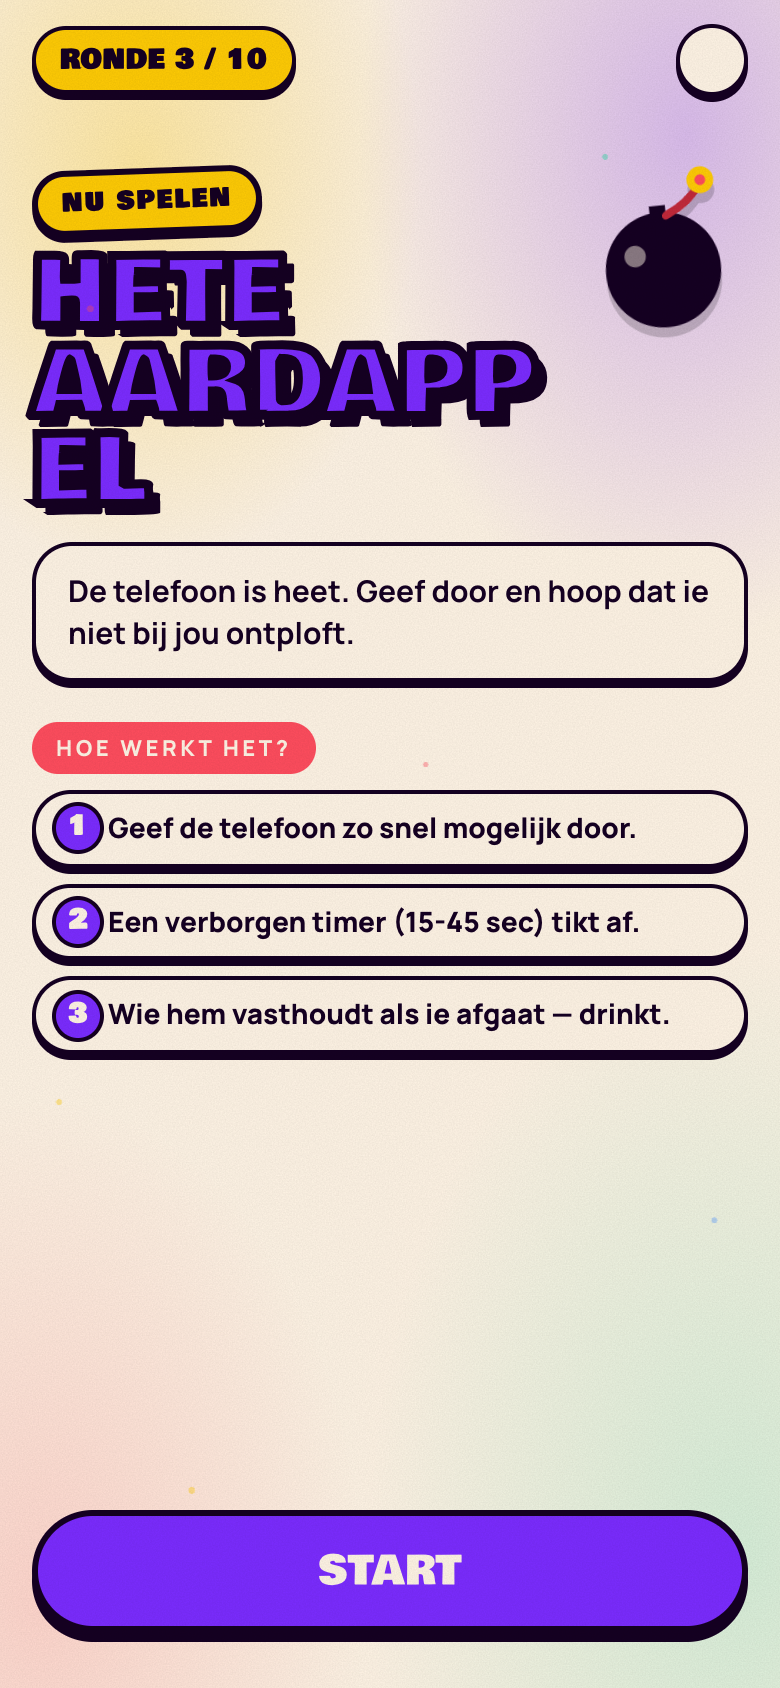
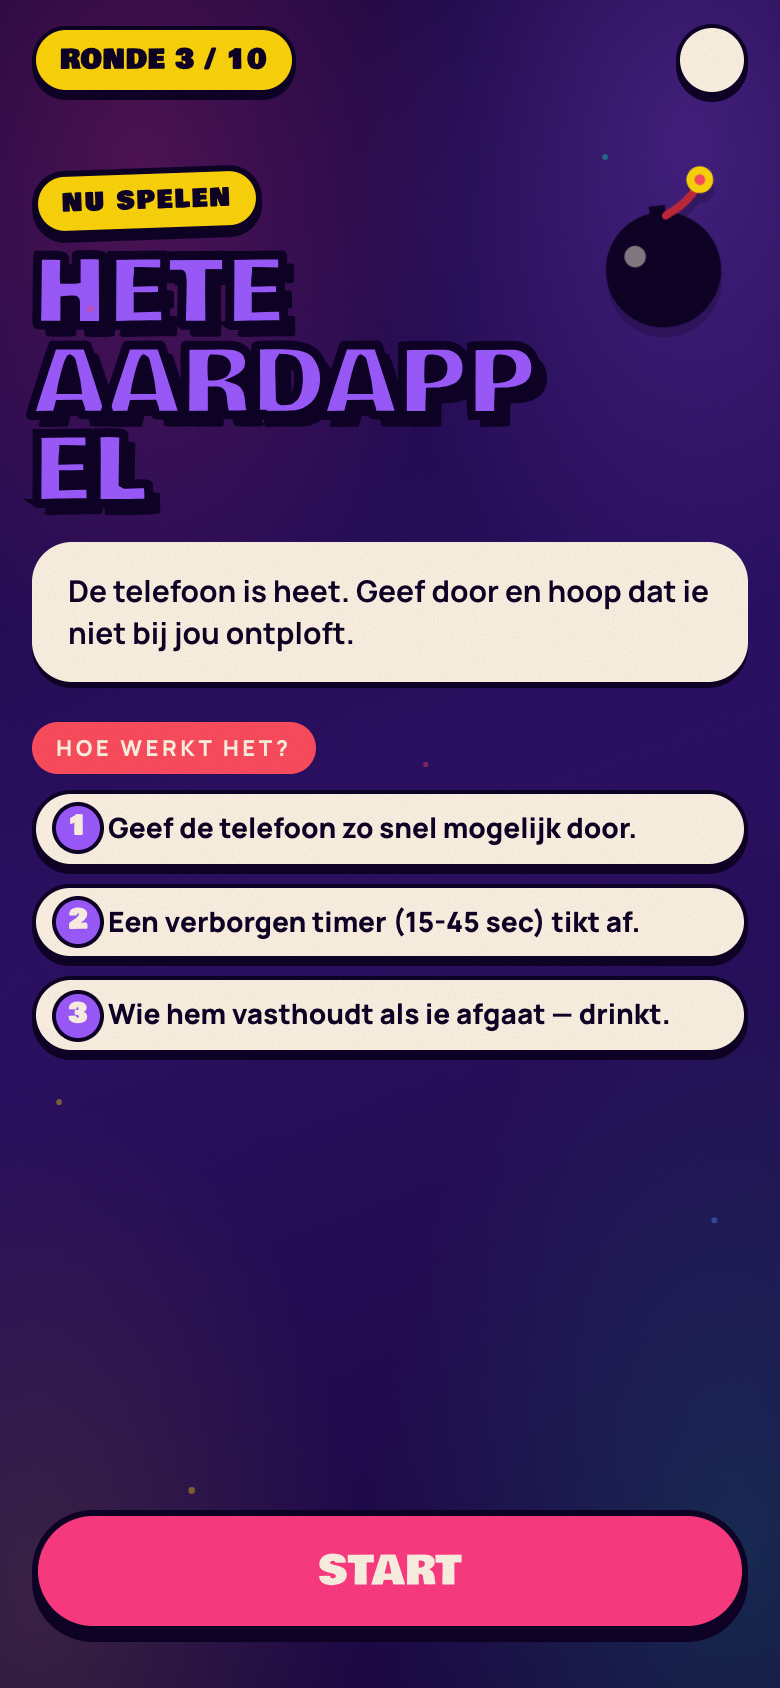
INSIGHT-style dark palette: deep purple bg, neon pink primary, cream cards
Full palette flip per user request "doe nu zelfde kleuren als insight":
- BG: cream → deep dark violet (#1A0640 → #2D1166 gradient + neon radials)
- Default text on screen: ink → cream (since bg is now dark)
- Primary CTA: purple → neon pink (#FF3B82) — Insight signature accent
- Cream cards remain (POP harder against dark bg now — premium feel)
- Mascot gets pink glow halo so silhouette stays visible on dark

Tokens added: bg-dark, bg-darker, bg-card, pink, pink-deep, pink-soft.
Cream/yellow/mint/sky stay as accents.

Specific updates:
- .btn default → pink, .btn.primary → pink, .btn.purple → purple variant
- .btn.ghost: transparent w/ cream border (was ink-on-cream)
- Welcome marker chips: cream + pink (was ink + coral)
- Setup-step h2: cream w/ ink stroke + pink shadow (was raw ink)
- Setup-step subtitle: cream w/ opacity (was ink)
- Setup-progress bg track: cream rgba (was ink rgba)
- Vote screen who-turn: cream w/ stroke + pink shadow
- Zitplaatsen heading: cream stroked
- Game-intro gdesc card border: cream (subtle on dark bg)
- Welcome-bottom + zitplaatsen subtitle: cream

Welcome mascot now has neon pink drop-shadow halo so the ink-fur cat
stays visible against the dark violet background.

diff --git a/css/main.css b/css/main.css
@@ -6,30 +6,38 @@
  */
 
 :root {
-  /* === Purple-pop palette (BoomIt-vibe) === */
-  --cream:        #FFF4E5;
+  /* === INSIGHT-style palette: deep purple bg, neon accents, cream cards === */
+  --bg-dark:      #1A0640;       /* primary background — deep violet */
+  --bg-darker:    #0E0226;
+  --bg-card:      #2D1166;       /* darker purple card surface */
+
+  --cream:        #FFF4E5;       /* card surface (light) */
   --cream-deep:   #FFE9CC;
   --cream-shade:  #FAD9A8;
 
-  --purple:       #7B2CFF;       /* PRIMARY — vibrant violet */
-  --purple-deep:  #4A0EC2;
+  --purple:       #9D5BFF;       /* lighter, brighter on dark bg */
+  --purple-deep:  #6B1FE0;
   --purple-soft:  #C9ADFF;
+
+  --pink:         #FF3B82;       /* PRIMARY — neon hot pink */
+  --pink-deep:    #C91E5F;
+  --pink-soft:    #FFB5C7;
 
   --coral:        #FF4D5E;       /* secondary accent */
   --coral-deep:   #C2293A;
   --coral-soft:   #FFB5BD;
 
-  --yellow:       #FFCB05;
+  --yellow:       #FFD60A;
   --yellow-soft:  #FFE082;
 
-  --mint:         #20D6A0;
+  --mint:         #00E1A1;       /* slight more neon */
   --mint-deep:    #0F9D72;
 
   --sky:          #5B9BFF;
 
-  --ink:          #150022;       /* deep purple-black */
-  --ink-soft:     #2D0044;
-  --ink-mute:     #5A3F73;
+  --ink:          #0E0226;       /* deepest violet, near black */
+  --ink-soft:     #2D1166;
+  --ink-mute:     #6B5A85;
 
   /* === Functional aliases === */
   --bg: var(--cream);
@@ -40,9 +48,6 @@
   --fg-on-color: var(--cream);
 
   /* Backward-compat (older inline references) */
-  --pink: var(--coral);
-  --pink-deep: var(--coral-deep);
-  --pink-soft: var(--coral-soft);
   --lime: var(--yellow);
   --lime-deep: #C9A005;
   --orange: var(--coral);
@@ -50,14 +55,14 @@
   --cyan: var(--sky);
   --red: var(--coral-deep);
   --bone: var(--cream);
-  --ink-orange: var(--coral);
-  --ink-cyan: var(--mint-deep);
+  --ink-orange: var(--pink);
+  --ink-cyan: var(--mint);
   --ink-bone: var(--cream);
   --ink-paper: var(--ink);
 
-  /* Hero color (per-game) — PURPLE PRIMARY */
-  --hero: var(--purple);
-  --hero-deep: var(--purple-deep);
+  /* Hero color (per-game) — PINK PRIMARY (Insight neon) */
+  --hero: var(--pink);
+  --hero-deep: var(--pink-deep);
 
   /* Type */
   --font-display: "Bowlby One", "Anton", sans-serif;
@@ -92,8 +97,8 @@ html, body {
   height: 100%;
   overflow: hidden;
   overscroll-behavior: none;
-  background: var(--cream);
-  color: var(--fg);
+  background: var(--bg-dark);
+  color: var(--cream);
   font-family: var(--font-body);
   font-weight: 700;
   font-size: 15px;
@@ -101,26 +106,26 @@ html, body {
   -webkit-font-smoothing: antialiased;
 }
 
-/* === Animated background — soft purple gradient with cream + accent radials === */
+/* === Insight-style: deep dark violet bg with neon accent radials === */
 body {
   position: relative;
   background:
-    radial-gradient(ellipse 60% 40% at 18% 10%, rgba(255,203,5,0.30), transparent 60%),
-    radial-gradient(ellipse 70% 50% at 88% 8%, rgba(123,44,255,0.28), transparent 60%),
-    radial-gradient(ellipse 80% 60% at 95% 92%, rgba(32,214,160,0.18), transparent 60%),
-    radial-gradient(ellipse 70% 50% at 5% 95%, rgba(255,77,94,0.18), transparent 60%),
-    var(--cream);
+    radial-gradient(ellipse 70% 50% at 18% 10%, rgba(255,59,130,0.22), transparent 60%),
+    radial-gradient(ellipse 70% 50% at 88% 8%, rgba(157,91,255,0.28), transparent 60%),
+    radial-gradient(ellipse 80% 60% at 95% 92%, rgba(0,225,161,0.16), transparent 60%),
+    radial-gradient(ellipse 70% 50% at 5% 95%, rgba(255,214,10,0.12), transparent 60%),
+    linear-gradient(160deg, #1A0640 0%, #2D1166 50%, #1A0640 100%);
   background-attachment: fixed;
 }
 
-/* Per-screen theme: tints the bg accents subtly without going dark */
+/* Per-screen theme: shifts hero color */
 body[data-theme="purple"] { --hero: var(--purple); --hero-deep: var(--purple-deep); }
 body[data-theme="coral"]  { --hero: var(--coral); --hero-deep: var(--coral-deep); }
 body[data-theme="yellow"] { --hero: var(--yellow); --hero-deep: #C9A005; }
 body[data-theme="mint"]   { --hero: var(--mint); --hero-deep: var(--mint-deep); }
 body[data-theme="sky"]    { --hero: var(--sky); --hero-deep: #2868D9; }
-body[data-theme="ink"]    { --hero: var(--ink-soft); --hero-deep: var(--ink); }
-body[data-theme="blush"]  { --hero: var(--purple-soft); --hero-deep: var(--purple); }
+body[data-theme="ink"]    { --hero: var(--pink); --hero-deep: var(--pink-deep); }
+body[data-theme="blush"]  { --hero: var(--pink); --hero-deep: var(--pink-deep); }
 
 /* Dot confetti overlay */
 .grain {
@@ -184,7 +189,7 @@ body[data-theme="blush"]  { --hero: var(--purple-soft); --hero-deep: var(--purpl
   padding: calc(var(--s-5) + var(--safe-top)) var(--s-5) calc(var(--s-5) + var(--safe-bot));
   overflow: hidden;
   will-change: transform, opacity;
-  color: var(--ink);
+  color: var(--cream);
 }
 .screen.entering { animation: screenIn 380ms var(--ease-pop) both; }
 .screen.exiting  { animation: screenOut 220ms var(--ease-out) both; }
@@ -250,7 +255,7 @@ p { margin: 0; }
   gap: var(--s-2);
   min-height: 60px;
   padding: var(--s-3) var(--s-5);
-  background: var(--purple);
+  background: var(--pink);
   color: var(--cream);
   border: 3px solid var(--ink);
   border-radius: var(--r-pill);
@@ -272,7 +277,8 @@ p { margin: 0; }
 .btn.full   { width: 100%; }
 .btn.small  { min-height: 44px; padding: var(--s-2) var(--s-4); font-size: 15px; }
 
-.btn.primary { background: var(--purple); color: var(--cream); }
+.btn.primary { background: var(--pink); color: var(--cream); }
+.btn.purple  { background: var(--purple); color: var(--cream); }
 .btn.coral   { background: var(--coral); color: var(--cream); }
 .btn.cream   { background: var(--cream); color: var(--ink); }
 .btn.yellow  { background: var(--yellow); color: var(--ink); }
@@ -280,10 +286,10 @@ p { margin: 0; }
 .btn.ink     { background: var(--ink); color: var(--cream); }
 .btn.danger  { background: var(--coral-deep); color: var(--cream); }
 .btn.ghost   {
-  background: transparent;
-  color: var(--ink);
-  border-color: var(--ink);
-  box-shadow: 0 5px 0 0 rgba(26,22,53,0.25);
+  background: rgba(255,244,229,0.08);
+  color: var(--cream);
+  border-color: var(--cream);
+  box-shadow: 0 5px 0 0 rgba(0,0,0,0.5);
 }
 
 /* === Cards === */

diff --git a/css/screens.css b/css/screens.css
@@ -19,18 +19,18 @@
   font-weight: 900;
   font-size: 11px;
   letter-spacing: 0.18em;
-  background: var(--ink);
-  color: var(--cream);
+  background: var(--cream);
+  color: var(--ink);
   padding: 5px 12px;
   border-radius: var(--r-pill);
 }
-.welcome .marker.right { left: auto; right: var(--s-5); background: var(--coral); color: var(--cream); }
+.welcome .marker.right { left: auto; right: var(--s-5); background: var(--pink); color: var(--cream); }
 
 .welcome-mascot {
   width: clamp(140px, 38vw, 200px);
   height: auto;
   margin-bottom: var(--s-5);
-  filter: drop-shadow(0 6px 0 var(--ink));
+  filter: drop-shadow(0 0 28px rgba(255,59,130,0.55)) drop-shadow(0 6px 0 var(--ink));
   animation: mascotBob 3s ease-in-out infinite;
   transform-origin: center bottom;
 }
@@ -80,7 +80,7 @@
   font-weight: 900;
   font-size: 11px;
   letter-spacing: 0.3em;
-  color: var(--ink);
+  color: var(--cream);
   opacity: 0.55;
   text-transform: uppercase;
 }
@@ -178,9 +178,9 @@
 .setup-progress span {
   flex: 1;
   height: 8px;
-  background: rgba(26,22,53,0.16);
+  background: rgba(255,244,229,0.18);
   border-radius: var(--r-pill);
-  border: 2px solid var(--ink);
+  border: 2px solid var(--cream);
 }
 .setup-progress span.done { background: var(--mint); }
 .setup-progress span.current { background: var(--coral); animation: pulse 1.4s infinite; }
@@ -205,17 +205,18 @@
   text-transform: uppercase;
 }
 .setup-step h2 {
-  color: var(--ink);
+  color: var(--cream);
+  text-shadow: 4px 4px 0 var(--ink);
   margin: 0;
   line-height: 0.92;
   font-size: clamp(34px, 9vw, 56px);
 }
 .setup-step p {
   margin: 0;
-  color: var(--ink);
+  color: var(--cream);
   font-size: 14px;
   font-weight: 700;
-  opacity: 0.72;
+  opacity: 0.78;
 }
 
 .player-input { display: flex; gap: var(--s-2); align-items: stretch; }
@@ -400,8 +401,9 @@
   font-family: var(--font-display);
   font-size: clamp(40px, 11vw, 64px);
   line-height: 0.95;
-  color: var(--ink);
-  text-shadow: 4px 4px 0 var(--coral);
+  color: var(--cream);
+  -webkit-text-stroke: 3px var(--ink);
+  text-shadow: 4px 4px 0 var(--pink);
   word-break: break-word;
   padding: 0 var(--s-2);
 }
@@ -746,7 +748,7 @@
   background: var(--cream);
   padding: var(--s-3) var(--s-4);
   border-radius: var(--r-md);
-  border: 2.5px solid var(--ink);
+  border: 2.5px solid var(--cream);
   box-shadow: var(--shadow-pop-sm);
 }
 .gintro-howto {

diff --git a/js/app.js b/js/app.js
@@ -514,7 +514,7 @@
     mount(s => {
       s.classList.add('seating');
       s.appendChild(U.el('div', { class: 'kicker coral', style: { alignSelf: 'center' }, text: 'ZITVOLGORDE' }));
-      s.appendChild(U.el('h2', { style: { color: 'var(--ink)', textAlign: 'center', textShadow: '4px 4px 0 var(--coral)' }, text: 'JE BUREN VAN VANAVOND' }));
+      s.appendChild(U.el('h2', { style: { color: 'var(--cream)', textAlign: 'center', WebkitTextStroke: '3px var(--ink)', textShadow: '4px 4px 0 var(--pink)' }, text: 'JE BUREN VAN VANAVOND' }));
       const tableWrap = U.el('div', { class: 'seating-table' });
       tableWrap.appendChild(U.el('div', { class: 'table-disc' }));
       state.seating.forEach((p, idx) => {
@@ -530,7 +530,7 @@
         tableWrap.appendChild(seat);
       });
       s.appendChild(tableWrap);
-      s.appendChild(U.el('p', { style: { textAlign: 'center', color: 'var(--ink)', opacity: 0.7, fontWeight: 800 },
+      s.appendChild(U.el('p', { style: { textAlign: 'center', color: 'var(--cream)', opacity: 0.78, fontWeight: 800 },
         text: 'Onthoud dit — sommige games gebruiken je buren.' }));
 
       const footer = U.el('div', { class: 'setup-footer' });
